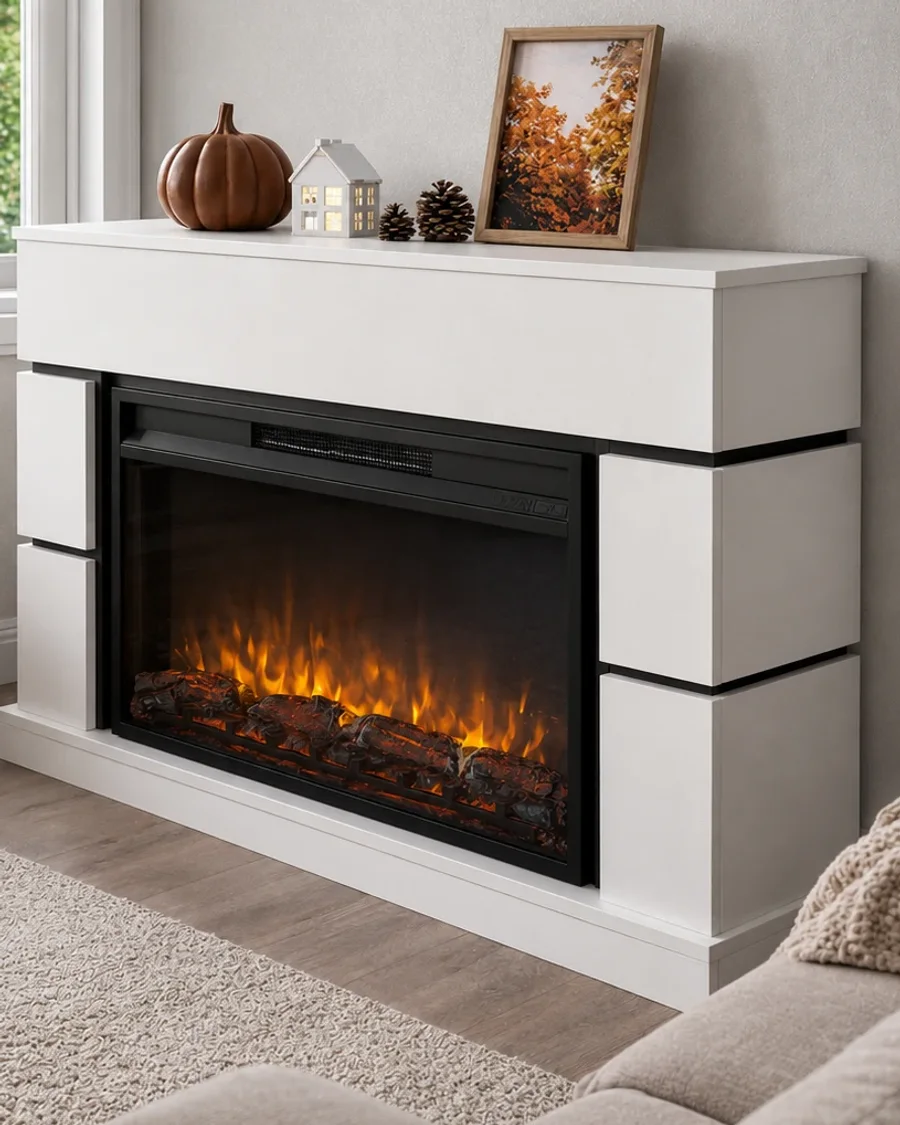
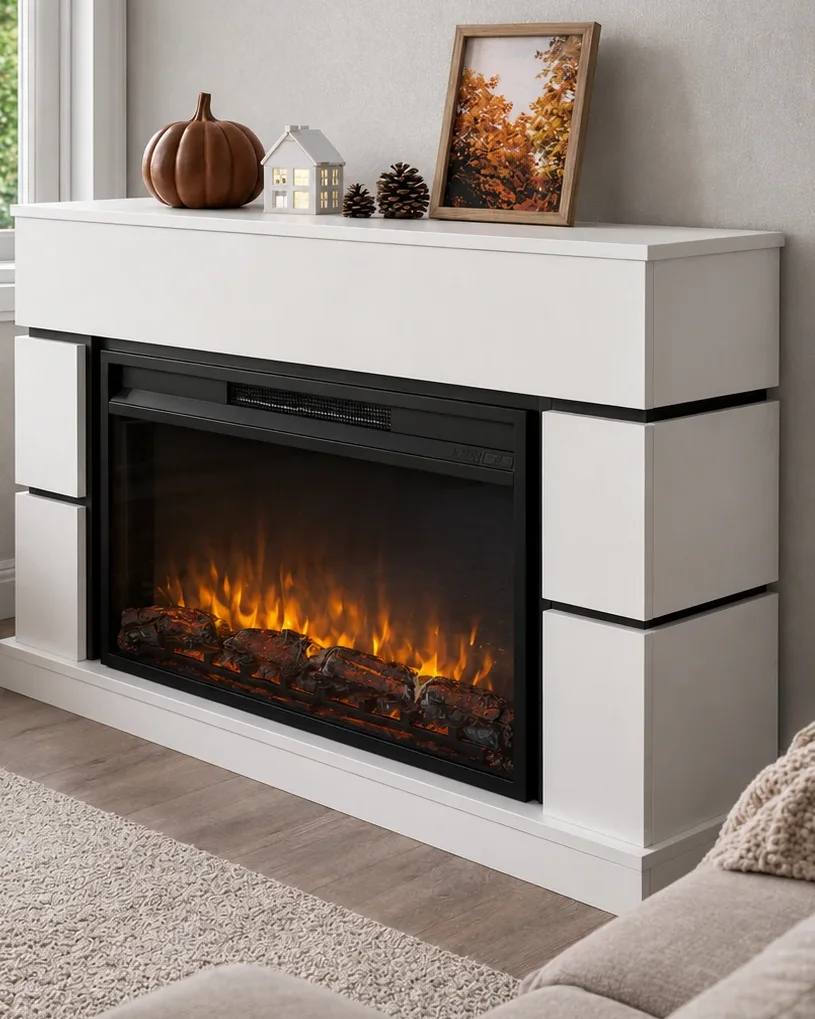
Кадры очага и фактуры портала в хорошем качестве
Заказчик прислал папку «для правок». Оба кадра прежде вырезались из фотографий
товара и разрешения им не хватало: угли были 1200×750 с резкостью 1236, угол
портала — 700×700 с резкостью 124. Присланные: 1646×956 с резкостью 4302 и
1191×1320 с резкостью 635.

Файлы кладутся в incoming/content и подменяют источник — по той же причине,
что и фотографии товара: пересборка не должна вернуть архивный кадр.

Заодно запрещено увеличение во всех производных изображениях. Раньше noEnlarge
стоял только у главных фото карточек, а обложки категорий и баннеры могли
растянуть вырезанный фрагмент выше исходного размера — ровно то мыло, на
которое заказчик и жалуется.

Широкий кадр очага показывается в пропорции самого снимка, 16:9. При 21:9
верх с пламенем срезался и оставались одни угли — ради формата терялось то,
что на кадре главное.

Убран firebox-detail: он собирался, но нигде не использовался.

Третий присланный файл — «Дублин Премиум» — совпадает с тем, что уже стоит
на сайте,替 менять нечего.

37 e2e-тестов проходят.

diff --git a/src/components/home/ProductionBlock.tsx b/src/components/home/ProductionBlock.tsx
@@ -82,7 +82,9 @@ export function ProductionBlock() {
 
         {/* Один широкий кадр вместо мозаики: огонь крупно и без соседей */}
         <Reveal className="mt-14 lg:mt-20">
-          <div className="relative aspect-[16/9] overflow-hidden bg-white/5 sm:aspect-[21/9]">
+          {/* Пропорция совпадает с присланным кадром: при 21:9 верх с пламенем
+              срезался, оставались одни угли */}
+          <div className="relative aspect-[16/9] overflow-hidden bg-white/5">
             <Image
               src="/images/production/hearth-wide.webp"
               alt="Горящие дрова в очаге крупным планом"

diff --git a/incoming/README.md b/incoming/README.md
@@ -29,3 +29,21 @@ node scripts/make-covers.mjs
 Второй скрипт пересоберёт обложки категорий, баннеры карусели и главные фото
 карточек — то есть новая фотография разойдётся во все места, где она
 используется.
+
+## Замена кадров в блоках о производстве
+
+```
+incoming/content/<ключ>.<jpg|jpeg|png|webp>
+```
+
+Ключи соответствуют файлам в `public/images/production`:
+
+| Ключ           | Где используется                                   |
+| -------------- | -------------------------------------------------- |
+| `hearth-wide`  | широкий кадр очага на главной и на «О нас»         |
+| `stone-detail` | фотография фактуры в блоке «Почему покупают у нас» |
+
+Файл отсюда подменяет кадр, который иначе вырезался бы из фотографии товара.
+Размер вывода задан в `PRODUCTION` в `scripts/make-covers.mjs`; увеличивать
+кадр скрипт не станет — если присланный снимок меньше цели, он останется
+в своём размере.
